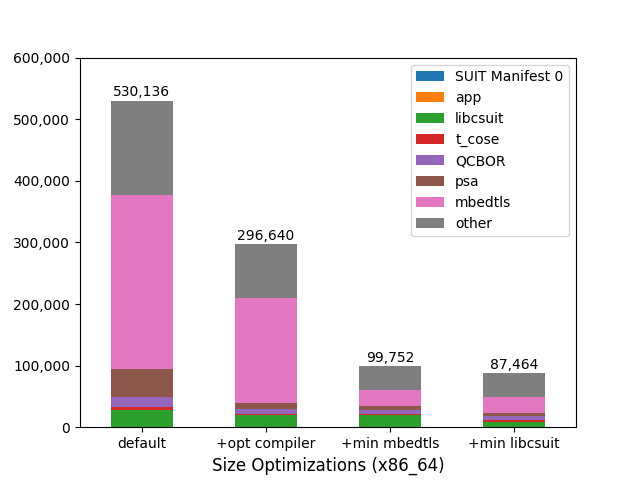
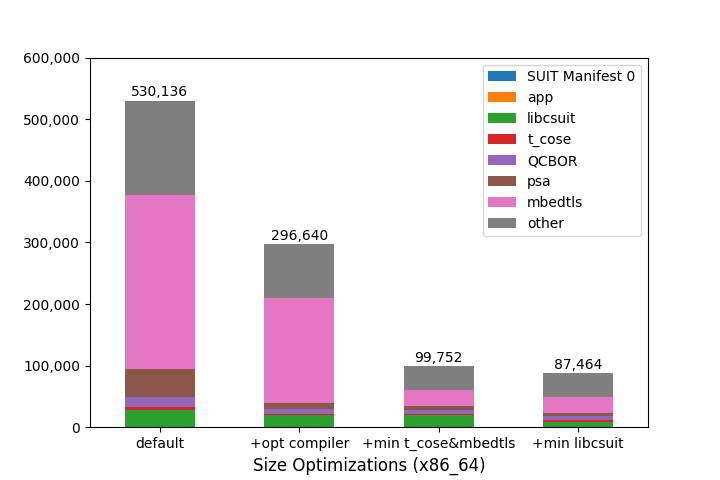
update: merge min3 and min2

diff --git a/misc/calc_table.py b/misc/calc_table.py
@@ -4,9 +4,8 @@ import os
 import re
 import pandas as pd
 import matplotlib.pyplot as plt
-import matplotlib.pylab as pylab
 
-pat = re.compile(r"\| ([a-zA-Z0-9_ ]+) \| ([a-zA-Z0-9_ +]+) \|")
+pat = re.compile(r"\| ([a-zA-Z0-9_ ]+) \| ([a-zA-Z0-9_ +&]+) \|")
 
 args = sys.argv
 arch = "unknown" if len(args) <= 1 else args[1]
@@ -42,12 +41,12 @@ for key in tmp.keys():
 print(df)
 df.to_csv(f"{script_path}/table_size_{arch}.csv")
 
-plt.figure()
-ndf = df.rename(columns = {"+optimize compiler": "+opt compiler", "+minimize t_cose": "+min t_cose", "+minimize mbedtls": "+min mbedtls", "+minimize libcsuit": "+min libcsuit"})
+ndf = df.rename(columns = {"+optimize compiler": "+opt compiler", "+minimize t_cose": "+min t_cose", "+minimize mbedtls": "+min mbedtls", "+minimize t_cose&mbedtls": "+min t_cose&mbedtls", "+minimize libcsuit": "+min libcsuit"})
 
 tmp = [ndf[column]["TOTAL"] for column in ndf.columns.values]
 max_total = max(tmp)
 
+plt.figure()
 ndf = ndf["SUIT Manifest 0":"other"].transpose()
 ndf.plot.bar(stacked=True)
 plt.xlabel(f"Size Optimizations ({arch})", fontsize=12)
@@ -57,6 +56,8 @@ plt.yticks(plt.yticks()[0], ["{:,}".format(int(i)) for i in plt.yticks()[0]])
 
 for i in range(len(tmp)):
     plt.text(i, tmp[i] + 2000, f"{tmp[i]:,}", ha='center', va='bottom')
+
+plt.gcf().set_size_inches(7.2, 4.8)
 
 plt.savefig(f"{script_path}/bar_size_{arch}.png")
 plt.close("all")
